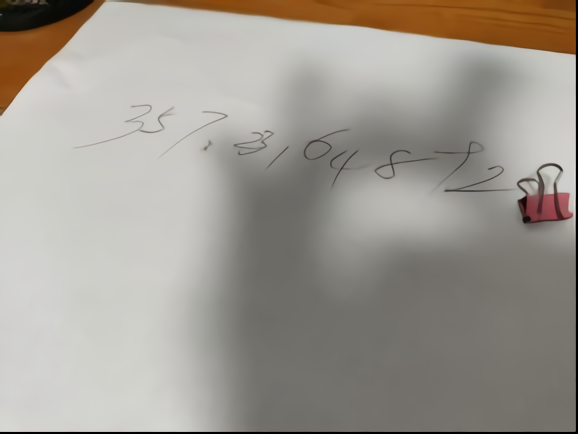
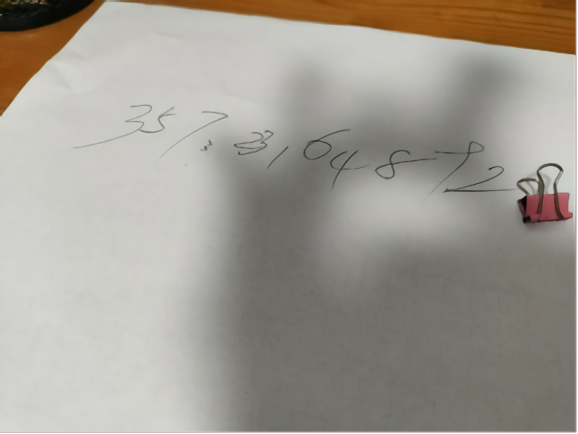
增加了颜色增强

Changed region(s): [[0.0, 0.0, 1.0, 1.0]]

diff --git a/enhance.py b/enhance.py
@@ -1,0 +1,149 @@
+# enhance.py
+import cv2
+import numpy as np
+import argparse
+import os
+
+def enhance_black_lines(image_path, output_path=None, intensity=1.5, thickness=1.0):
+    """
+    增强白纸黑字图像中的黑色字符线条
+    
+    参数:
+        image_path: 输入图像路径
+        output_path: 输出图像路径(可选)
+        intensity: 线条增强强度(1.0-3.0)
+        thickness: 线条加粗程度(1.0-2.0)
+    """
+    # 读取图像
+    img = cv2.imread(image_path)
+    if img is None:
+        print(f"错误: 无法读取图像 {image_path}")
+        return None
+    
+    # 转换为灰度图
+    gray = cv2.cvtColor(img, cv2.COLOR_BGR2GRAY)
+    
+    # 自适应阈值处理 - 更好地分离字符和背景
+    binary = cv2.adaptiveThreshold(
+        gray, 255, 
+        cv2.ADAPTIVE_THRESH_GAUSSIAN_C, 
+        cv2.THRESH_BINARY_INV, 
+        101, 15
+    )
+    
+    # 形态学操作 - 连接断裂的笔画
+    kernel = cv2.getStructuringElement(cv2.MORPH_ELLIPSE, (3, 3))
+    connected = cv2.morphologyEx(binary, cv2.MORPH_CLOSE, kernel)
+    
+    # 笔画细化 - 获得更精确的线条位置
+    thinned = cv2.ximgproc.thinning(
+        connected, 
+        thinningType=cv2.ximgproc.THINNING_GUOHALL
+    )
+    
+    # 创建笔画增强掩码
+    mask = np.zeros_like(gray, dtype=np.float32)
+    mask[thinned > 0] = 1.0  # 笔画位置设为1
+    
+    # 应用高斯模糊使边缘平滑
+    mask = cv2.GaussianBlur(mask, (0, 0), sigmaX=1.5)
+    
+    # 增强笔画
+    enhanced = img.astype(np.float32)
+    
+    # 在笔画区域应用颜色增强
+    for c in range(3):
+        # 在笔画区域加深颜色（使黑色更黑）
+        enhanced[:, :, c] = np.where(
+            mask > 0,
+            np.clip(enhanced[:, :, c] * (1 - mask * intensity * 0.5), 0, 255),
+            enhanced[:, :, c]
+        )
+    
+        # 在非笔画区域提亮背景（使白色更白）
+        enhanced[:, :, c] = np.where(
+            mask < 0.1,
+            np.clip(enhanced[:, :, c] * (1 + (1 - mask) * intensity * 0.2), 0, 255),
+            enhanced[:, :, c]
+        )
+    
+    # 加粗线条（可选）
+    if thickness > 1.0:
+        dilation_size = int(1 * (thickness - 1.0))
+        kernel = cv2.getStructuringElement(
+            cv2.MORPH_ELLIPSE, 
+            (2 * dilation_size + 1, 2 * dilation_size + 1)
+        )
+        mask_dilated = cv2.dilate(mask, kernel)
+        
+        for c in range(3):
+            enhanced[:, :, c] = np.where(
+                mask_dilated > 0,
+                np.clip(enhanced[:, :, c] * (1 - mask_dilated * intensity * 0.3), 0, 255),
+                enhanced[:, :, c]
+            )
+    
+    # 转换为8位图像
+    enhanced = np.clip(enhanced, 0, 255).astype(np.uint8)
+    
+    # 保存结果
+    if output_path is None:
+        base, ext = os.path.splitext(image_path)
+        output_path = f"{base}_enhanced{ext}"
+    
+    cv2.imwrite(output_path, enhanced)
+    print(f"增强后的图像已保存至: {output_path}")
+    
+    # 显示结果（可选）
+    cv2.imshow("raw", img)
+    cv2.imshow("after", enhanced)
+    cv2.waitKey(0)
+    cv2.destroyAllWindows()
+    
+    return enhanced
+
+def main():
+    # 创建命令行参数解析器
+    parser = argparse.ArgumentParser(
+        description='白纸黑字图像线条增强器 - 增强黑色字符线条'
+    )
+    parser.add_argument(
+        'image_path', 
+        type=str, 
+        help='输入图像路径'
+    )
+    parser.add_argument(
+        '--output', 
+        type=str, 
+        default=None, 
+        help='输出图像路径(可选)'
+    )
+    parser.add_argument(
+        '--intensity', 
+        type=float, 
+        default=1.5, 
+        help='线条增强强度(1.0-3.0)'
+    )
+    parser.add_argument(
+        '--thickness', 
+        type=float, 
+        default=1.5, 
+        help='线条加粗程度(1.0-2.0)'
+    )
+    
+    # 解析参数
+    args = parser.parse_args()
+    
+    # 执行增强
+    enhanced_image = enhance_black_lines(
+        args.image_path,
+        args.output,
+        args.intensity,
+        args.thickness
+    )
+    
+    if enhanced_image is not None:
+        print("图像增强完成！")
+
+if __name__ == '__main__':
+    main()

diff --git a/adjust.py b/adjust.py
@@ -3,6 +3,7 @@ import cv2
 import numpy as np
 import os
 
+# 几何矫正
 class GeometricAdjuster:
     def __init__(self):
         self.points = []  # 存储选择的四个点
